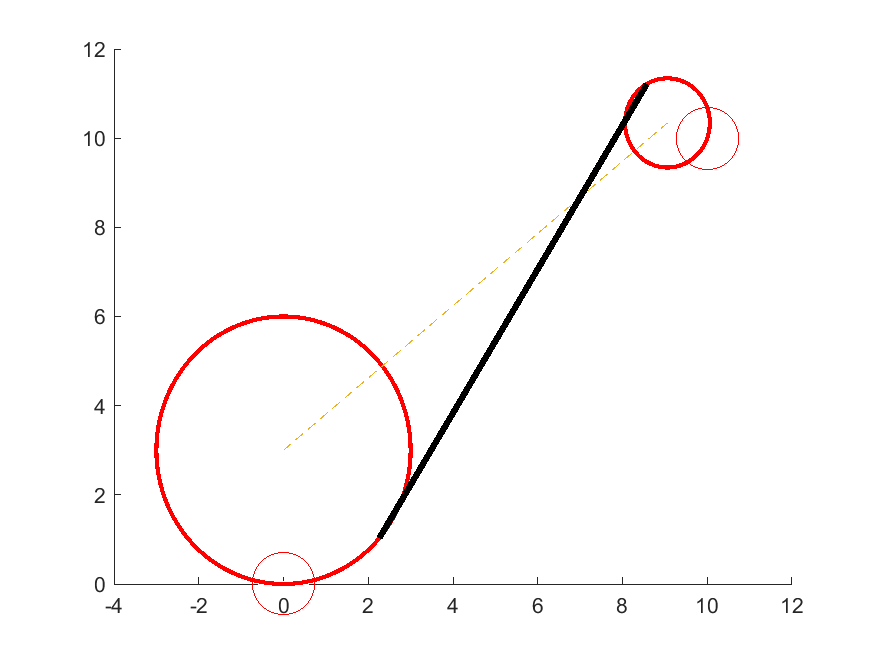
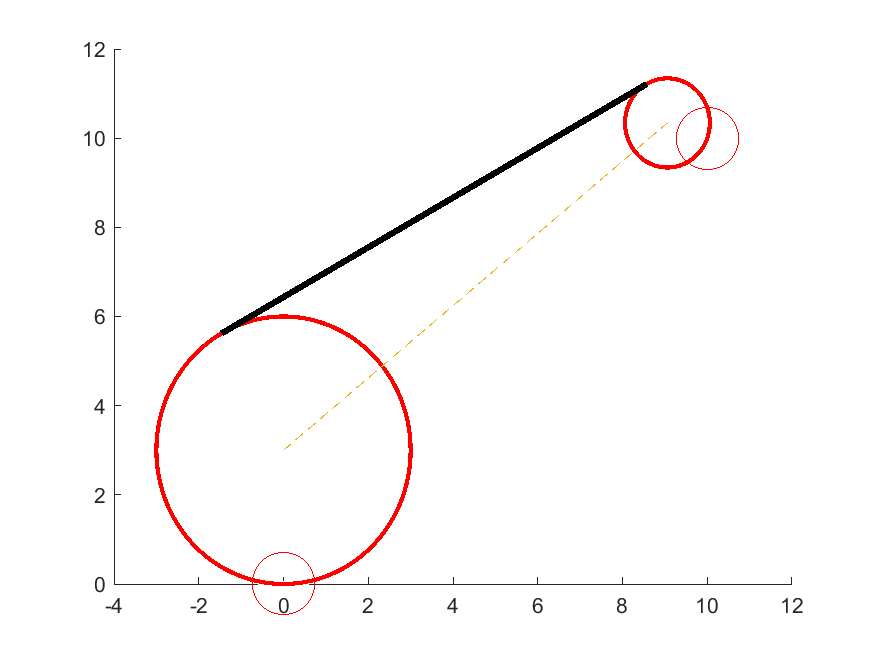
changes

diff --git a/dubins_path.m b/dubins_path.m
@@ -15,8 +15,8 @@ c = sqrt((xcs - xcf)^2 + (ycs-ycf)^2);
 alpha = asin((rhof-rhos)/c); 
 beta = atan2(ycf-ycs, xcf - xcs); 
 %E
-% phi = alpha+beta +pi/2; % left turn  
-phi = beta-alpha +3*pi/2; % right turn 
+phi = alpha+beta +pi/2; % left turn  
+% phi = beta-alpha +3*pi/2; % right turn 
 xPX = xcs + rhos*cos(phi); 
 yPX = ycs + rhos*sin(phi);
 %X
